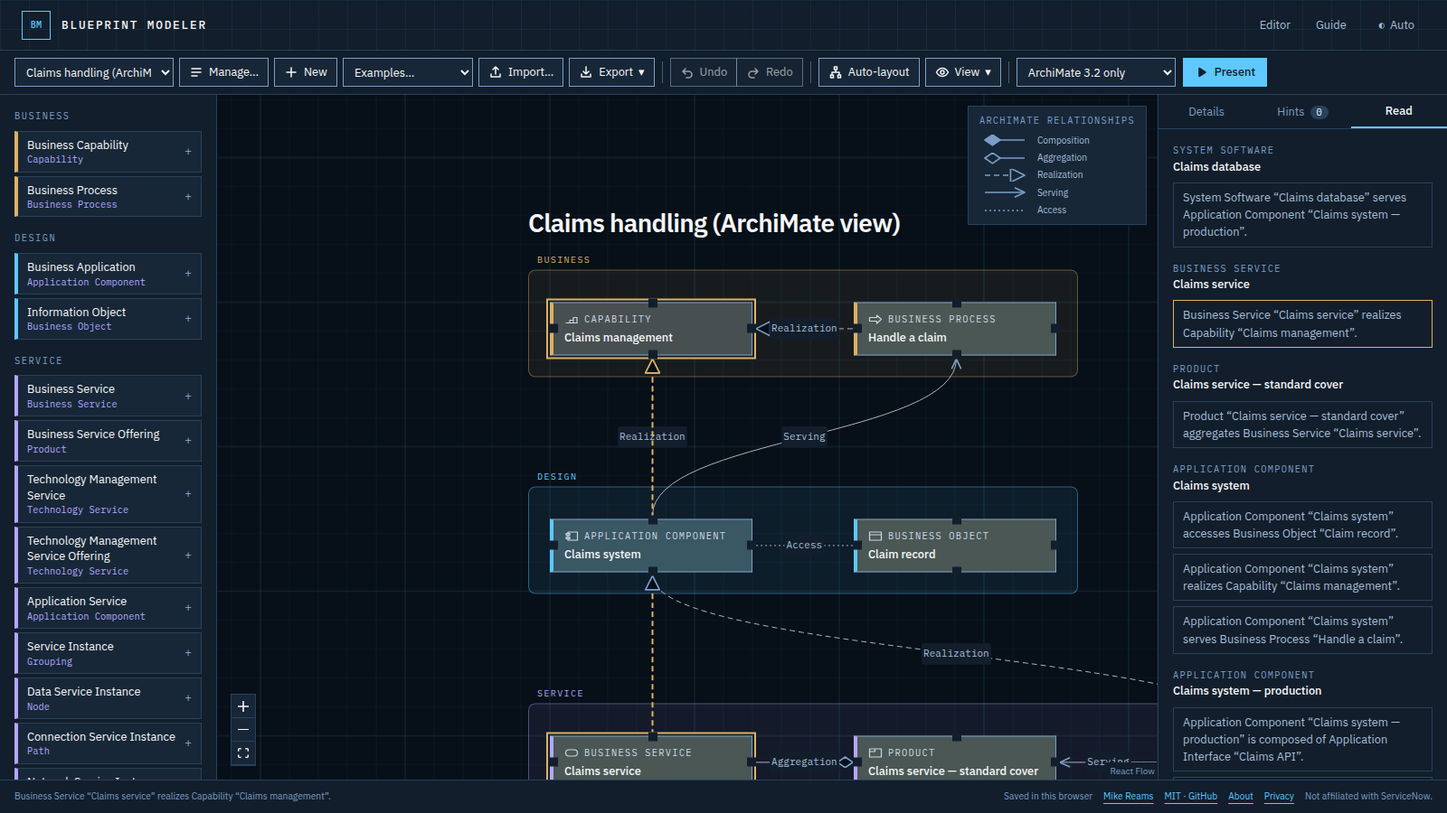
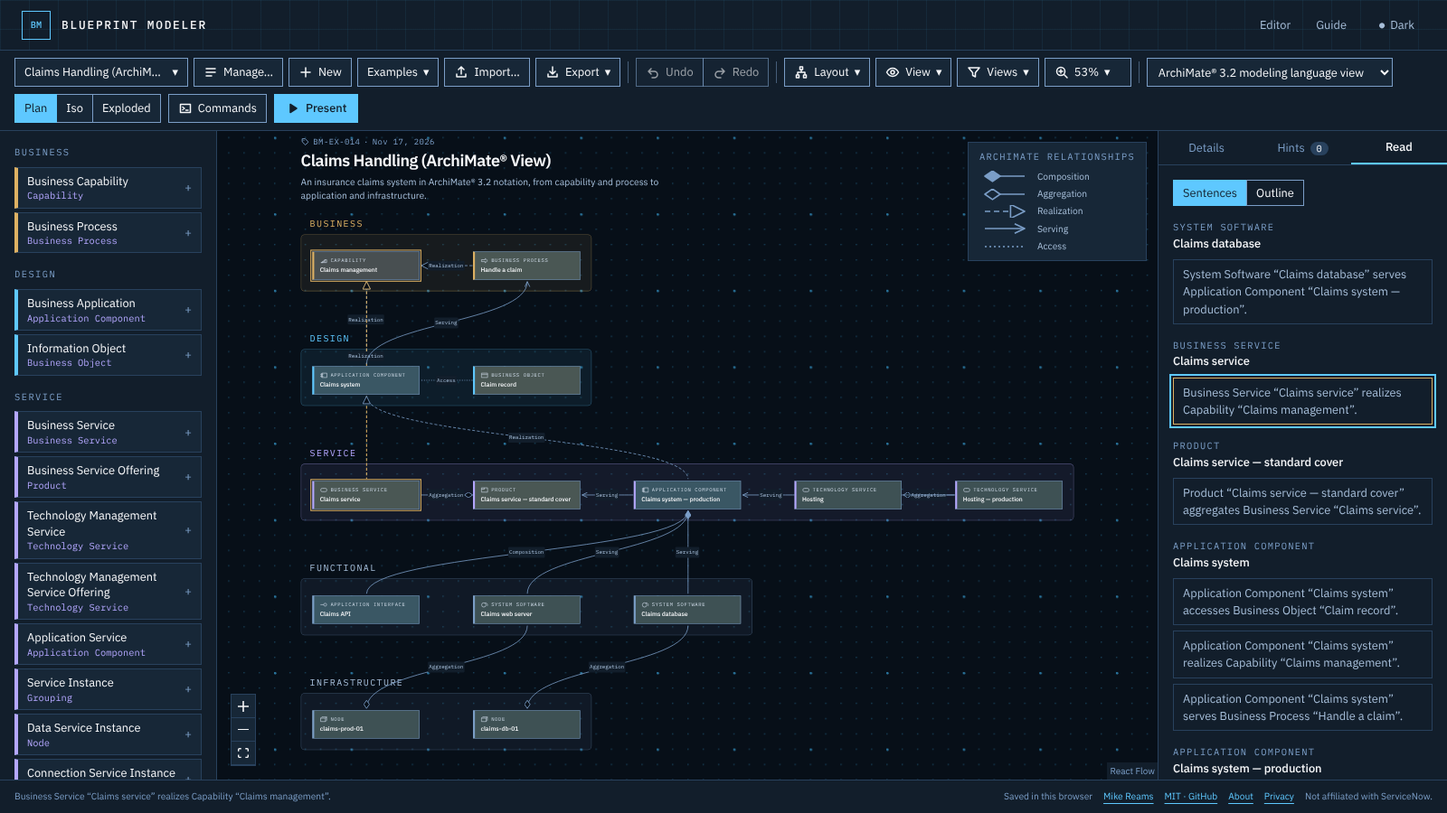
fix(copy): The Open Group's trademark wording and repo notice (T1)
Lens labels 'CSDM with ArchiMate® 3.2 notation' and 'ArchiMate® 3.2 modeling language view'; ArchiMate® and TOGAF® used only as adjectives, with ® on labels and headings; 'Working with the TOGAF® Standard'; README notice that commercial use of elements derived from The Open Group's standards needs their license. A unit test scans the app's text and the README. The lens select widens to 17rem; toolbar breakpoints move 96px and Commands is icon-only below 1100px. README ArchiMate screenshots retaken.

Claude-Session: https://claude.ai/code/session_01XZovLZqByaTnjq5eEBs2kf

diff --git a/src/frameworks/trademarks.test.ts b/src/frameworks/trademarks.test.ts
@@ -1,0 +1,75 @@
+import { readdirSync, readFileSync, statSync } from "node:fs";
+import { join } from "node:path";
+import { describe, expect, it } from "vitest";
+import { lenses } from "./index";
+
+/**
+ * The Open Group's trademark guidance (2026-11-16): ArchiMate® and TOGAF® are adjectives, never standalone
+ * nouns, and carry ® on labels. This scans what users read (the app's source text, comments stripped, and the
+ * README) for a mark not followed by a noun it describes.
+ */
+const ROOT = join(__dirname, "..", "..");
+
+/** Words the ArchiMate® mark may describe. */
+const ARCHIMATE_NOUNS = new Set(
+  "type types element elements relationship relationships notation layer layers model models tool tools terms name names reading exchange Exchange specification Specification Model modeling language mapping view View file interface outcomes lens source fill export icon Application Technology Business".split(" "),
+);
+/** Words the TOGAF® mark may describe. */
+const TOGAF_NOUNS = new Set("Standard conformance".split(" "));
+
+function sourceFiles(dir: string): string[] {
+  return readdirSync(dir).flatMap((name) => {
+    const path = join(dir, name);
+    if (statSync(path).isDirectory()) return sourceFiles(path);
+    return /\.tsx?$/.test(name) && !/\.test\.tsx?$/.test(name) ? [path] : [];
+  });
+}
+
+/** Comments are for developers; strings and JSX text are what users read. */
+function withoutComments(text: string) {
+  return text
+    .replace(/\/\*[\s\S]*?\*\//g, "")
+    .split("\n")
+    .filter((line) => !line.trim().startsWith("//"))
+    .join("\n");
+}
+
+/** Each use of a mark that isn't followed (after ® and a version) by one of its nouns. */
+function misuses(text: string, mark: string, nouns: Set<string>) {
+  const found: string[] = [];
+  const re = new RegExp(`${mark}(?![A-Za-z])(®)?((?: 3\\.2| 4)?)(?:\\s+|-)?([A-Za-z']*)`, "g");
+  for (const m of text.matchAll(re)) {
+    const next = m[3] ?? "";
+    // The trademark notice itself: "ArchiMate® is a registered trademark…", "ArchiMate® and TOGAF® are registered trademarks…".
+    const rest = text.slice((m.index ?? 0) + m[0].length);
+    if (["is", "and", "are"].includes(next) && /^[^.]*registered trademark/.test(rest)) continue;
+    // An element type filled in at run time: `ArchiMate® ${type}` in an image, `ArchiMate® {type}` in JSX.
+    if (next === "" && /^\$?\{/.test(text.slice((m.index ?? 0) + m[0].length))) continue;
+    if (!nouns.has(next)) found.push(text.slice(Math.max(0, (m.index ?? 0) - 30), (m.index ?? 0) + m[0].length + 20).replace(/\s+/g, " "));
+  }
+  return found;
+}
+
+const texts = [
+  ...sourceFiles(join(ROOT, "src")).map((path) => ({ path, text: withoutComments(readFileSync(path, "utf8")) })),
+  { path: "README.md", text: readFileSync(join(ROOT, "README.md"), "utf8") },
+];
+
+describe("The Open Group's marks (guidance of 2026-11-16)", () => {
+  it("names the lenses with ® and a noun", () => {
+    expect(lenses.map((l) => l.label)).toEqual(["CSDM", "CSDM with ArchiMate® 3.2 notation", "ArchiMate® 3.2 modeling language view"]);
+  });
+
+  it("uses ArchiMate® only as an adjective, in the app and the README", () => {
+    expect(texts.flatMap(({ path, text }) => misuses(text, "ArchiMate", ARCHIMATE_NOUNS).map((m) => `${path}: ${m}`))).toEqual([]);
+  });
+
+  it("uses TOGAF® only as an adjective, with Standard capitalized", () => {
+    expect(texts.flatMap(({ path, text }) => misuses(text, "TOGAF", TOGAF_NOUNS).map((m) => `${path}: ${m}`))).toEqual([]);
+  });
+
+  it("tells commercial users of the Open Group material that they need their own license", () => {
+    const readme = texts.at(-1)!.text;
+    expect(readme).toContain("for commercial purposes requires a separate license from The Open Group");
+  });
+});

diff --git a/src/app/guide/page.tsx b/src/app/guide/page.tsx
@@ -321,7 +321,7 @@ export default function GuidePage() {
       <section aria-labelledby="archimate" className="mt-16" data-testid="archimate-section" data-guide-section="archimate">
         <h2 id="archimate" className={h2}>ArchiMate® 3.2 mapping</h2>
         <p className="mt-2 max-w-2xl text-sm text-ink-muted">
-          Switch the editor&apos;s lens to <strong className="font-medium text-ink-soft">CSDM + ArchiMate 3.2</strong> to see
+          Switch the editor&apos;s lens to <strong className="font-medium text-ink-soft">CSDM with ArchiMate® 3.2 notation</strong> to see
           these names on the canvas. The mapping is our interpretation; each element links to the chapter of the{" "}
           <a className="text-accent underline underline-offset-4" href={archimateSources.spec.url} target="_blank" rel="noopener noreferrer">
             public specification
@@ -329,25 +329,26 @@ export default function GuidePage() {
           that defines it, and every relationship is an allowed ArchiMate relationship. {ARCHIMATE_TRADEMARK}
         </p>
         <div className="mt-6 max-w-2xl text-sm text-ink-muted" data-testid="togaf-note">
-          <h3 className="text-base font-semibold text-ink">Working with the TOGAF® standard</h3>
+          <h3 className="text-base font-semibold text-ink">Working with the TOGAF® Standard</h3>
           <p className="mt-2">
-            ArchiMate and the TOGAF standard are both published by The Open Group, and teams that follow the TOGAF standard
-            often draw their models in ArchiMate. Blueprint Modeler can feed that work from the CSDM side:
+            The ArchiMate® modeling language and the TOGAF® Standard are both published by The Open Group, and teams that
+            follow the TOGAF Standard often draw their models in the ArchiMate language. Blueprint Modeler can feed that work
+            from the CSDM side:
           </p>
           <ul className="mt-2 list-disc space-y-1 pl-5">
             <li>
-              Switch the lens to <strong className="font-medium text-ink-soft">ArchiMate 3.2 only</strong> to review a model in
+              Switch the lens to <strong className="font-medium text-ink-soft">ArchiMate® 3.2 modeling language view</strong> to review a model in
               ArchiMate notation and layer colors.
             </li>
             <li>
-              Use <strong className="font-medium text-ink-soft">Export › ArchiMate model (XML)</strong> to hand the model to an
+              Use <strong className="font-medium text-ink-soft">Export › ArchiMate® model (XML)</strong> to hand the model to an
               ArchiMate tool or architecture repository; each element keeps its CSDM class as a property.
             </li>
             <li>Use the SVG or draw.io exports for documents and slides.</li>
           </ul>
           <p className="mt-2">
-            Blueprint Modeler does not implement the TOGAF standard: it has no method phases, governance, catalogs or matrices,
-            and it makes no claim of TOGAF conformance or certification. TOGAF is a registered trademark of The Open Group.
+            Blueprint Modeler does not implement the TOGAF Standard: it has no method phases, governance, catalogs or matrices,
+            and it makes no claim of TOGAF conformance or certification. TOGAF® is a registered trademark of The Open Group.
           </p>
         </div>
         <div className="mt-6 overflow-x-auto border border-border" tabIndex={0} role="region" aria-label="ArchiMate element mapping" data-guide-group>

diff --git a/e2e/m26.spec.ts b/e2e/m26.spec.ts
@@ -19,7 +19,7 @@ test.describe("M26: ArchiMate notation, layer colors and the Read tab (desktop)"
 
   test("the ArchiMate-only lens draws relationship notation with a legend; other lenses keep plain arrows", async ({ page }) => {
     await openExample(page, "Online Store Checkout");
-    await page.getByRole("combobox", { name: "Framework lens" }).selectOption({ label: "ArchiMate 3.2 only" });
+    await page.getByRole("combobox", { name: "Framework lens" }).selectOption({ label: "ArchiMate® 3.2 modeling language view" });
 
     // Every edge carries ArchiMate markers, and realizations are dashed with the hollow triangle.
     const paths = page.locator(".react-flow__edge-path");
@@ -41,7 +41,7 @@ test.describe("M26: ArchiMate notation, layer colors and the Read tab (desktop)"
     const fills = await page.locator("[data-archimate-layer]").evaluateAll((els) => new Set(els.map((el) => getComputedStyle(el).backgroundColor)).size);
     expect(fills).toBeGreaterThanOrEqual(3);
 
-    await page.getByRole("combobox", { name: "Framework lens" }).selectOption({ label: "CSDM + ArchiMate 3.2" });
+    await page.getByRole("combobox", { name: "Framework lens" }).selectOption({ label: "CSDM with ArchiMate® 3.2 notation" });
     await expect(legend).toHaveCount(0);
     await expect(page.locator("[data-archimate-layer]")).toHaveCount(0);
     const plain = await paths.evaluateAll((els) => els.every((el) => (el.getAttribute("marker-end") ?? "").includes("arrowclosed") && !el.getAttribute("marker-start")));
@@ -49,7 +49,7 @@ test.describe("M26: ArchiMate notation, layer colors and the Read tab (desktop)"
   });
 
   test("text on ArchiMate layer fills stays readable in both themes", async ({ page }) => {
-    await openExample(page, "Claims Handling (ArchiMate View)");
+    await openExample(page, "Claims Handling (ArchiMate® View)");
     await expect(page.getByRole("combobox", { name: "Framework lens" })).toHaveValue("archimate-only");
     for (const scheme of ["dark", "light"] as const) {
       await page.emulateMedia({ colorScheme: scheme });
@@ -92,14 +92,14 @@ test.describe("M26: ArchiMate notation, layer colors and the Read tab (desktop)"
     await page.locator(".react-flow__pane").click({ position: { x: 5, y: 5 } });
 
     // The ArchiMate-only lens reads ArchiMate relationships from ArchiMate's source end.
-    await page.getByRole("combobox", { name: "Framework lens" }).selectOption({ label: "ArchiMate 3.2 only" });
+    await page.getByRole("combobox", { name: "Framework lens" }).selectOption({ label: "ArchiMate® 3.2 modeling language view" });
     await expect(panel).toContainText("Application Component “Checkout — production” realizes Application Component “Checkout”.");
   });
 
   for (const scheme of ["dark", "light"] as const) {
     test(`notation legend, layer fills and the Read tab have no WCAG 2.2 AA violations (${scheme})`, async ({ page }) => {
       await page.emulateMedia({ colorScheme: scheme });
-      await openExample(page, "Claims Handling (ArchiMate View)");
+      await openExample(page, "Claims Handling (ArchiMate® View)");
       await expect(page.getByTestId("notation-legend")).toBeVisible();
       await page.getByRole("tab", { name: "Read" }).click();
       await page.getByTestId("read-panel").getByRole("button").first().click();

diff --git a/src/editor/Editor.tsx b/src/editor/Editor.tsx
@@ -139,7 +139,7 @@ const primaryButton =
   "inline-flex min-h-8 cursor-pointer items-center gap-1.5 border border-accent bg-accent px-3 text-sm font-medium text-accent-ink hover:opacity-90 disabled:cursor-not-allowed disabled:opacity-60";
 /** Toolbar groups (Model, Edit, Arrange, Lens): a caption on wide screens, a divider between groups. */
 const toolbarGroup = "flex flex-wrap items-center gap-1.5";
-const groupCaption = "mr-0.5 hidden font-mono text-[0.65rem] tracking-[0.14em] text-ink-muted uppercase min-[2120px]:inline";
+const groupCaption = "mr-0.5 hidden font-mono text-[0.65rem] tracking-[0.14em] text-ink-muted uppercase min-[2216px]:inline";
 const toolbarDivider = "h-6 w-px bg-border-strong/50";
 const toolbarSelect = "min-h-8 max-w-60 border border-border-strong bg-surface-raised px-2 text-sm text-ink";
 /** Minimap node fill per CSDM layer: the same tokens as the nodes' left borders (layerAccent). */
@@ -2937,7 +2937,7 @@ function EditorInner() {
           </span>
           <label className="flex items-center text-sm">
             <span className="sr-only">Framework lens</span>
-            <select className={`${toolbarSelect} w-44`} value={lens} onChange={(e) => setLens(e.target.value as Lens)} data-testid="lens-select">
+            <select className={`${toolbarSelect} w-[17rem] max-w-none`} value={lens} onChange={(e) => setLens(e.target.value as Lens)} data-testid="lens-select">
               {lenses.map((l) => (
                 <option key={l.id} value={l.id}>
                   {l.label}
@@ -2967,10 +2967,11 @@ function EditorInner() {
         </div>
         {/* Commands and Present wrap together, so Present never sits alone on a second row. */}
         <div className="flex items-center gap-2">
-          {/* Icon only from 1778 to 1847px: there the word would push Present onto a second row (narrower, the toolbar has two rows anyway). */}
+          {/* Icon only from 1874 to 1943px, where the word would push Present onto a second row, and below 1100px, where it
+              would push both onto a third (T1: the lens select's longer labels). */}
           <button type="button" className={toolbarButton} onClick={() => openDialog(setPalette)} aria-label="Commands" title="Commands (Ctrl+K or ⌘K)" aria-keyshortcuts="Control+K Meta+K">
             <ToolbarIcon name="commands" />
-            <span aria-hidden="true" className="min-[1778px]:max-[1847px]:hidden">
+            <span aria-hidden="true" className="min-[1874px]:max-[1943px]:hidden max-[1099px]:hidden">
               Commands
             </span>
           </button>

diff --git a/e2e/lens.spec.ts b/e2e/lens.spec.ts
@@ -17,7 +17,7 @@ test.describe("framework lens (desktop)", () => {
   test("the ArchiMate lens adds mapped names to nodes and the inspector, and survives a reload", async ({ page }) => {
     await openCheckout(page);
     await expect(page.getByTestId("lens-label")).toHaveCount(0);
-    await page.getByRole("combobox", { name: "Framework lens" }).selectOption({ label: "CSDM + ArchiMate 3.2" });
+    await page.getByRole("combobox", { name: "Framework lens" }).selectOption({ label: "CSDM with ArchiMate® 3.2 notation" });
     const labels = page.getByTestId("lens-label");
     await expect(labels).toHaveCount(await page.locator(".react-flow__node").count());
     await expect(page.locator(".react-flow__node").filter({ hasText: "Checkout — production" }).getByTestId("lens-label")).toHaveText(
@@ -28,8 +28,8 @@ test.describe("framework lens (desktop)", () => {
     const panel = page.getByTestId("lens-panel");
     await expect(panel).toContainText("Application Component");
     await expect(panel).toContainText("not an ArchiMate Application Service");
-    await expect(panel.getByRole("link", { name: /Source: ArchiMate 3.2, Application Layer/ })).toHaveAttribute("href", /pubs\.opengroup\.org/);
-    await expect(page.getByRole("complementary", { name: "Inspector" })).toContainText("ArchiMate: Serving");
+    await expect(panel.getByRole("link", { name: /Source: ArchiMate 3.2 Specification, Application Layer/ })).toHaveAttribute("href", /pubs\.opengroup\.org/);
+    await expect(page.getByRole("complementary", { name: "Inspector" })).toContainText("ArchiMate relationship: Serving");
 
     await page.reload();
     await expect(page.getByRole("combobox", { name: "Framework lens" })).toHaveValue("archimate");
@@ -42,7 +42,7 @@ test.describe("framework lens (desktop)", () => {
     test(`the ArchiMate lens has no WCAG 2.2 AA violations (${scheme})`, async ({ page }) => {
       await page.emulateMedia({ colorScheme: scheme });
       await openCheckout(page);
-      await page.getByRole("combobox", { name: "Framework lens" }).selectOption({ label: "CSDM + ArchiMate 3.2" });
+      await page.getByRole("combobox", { name: "Framework lens" }).selectOption({ label: "CSDM with ArchiMate® 3.2 notation" });
       await page.locator(".react-flow__node").filter({ hasText: "Checkout — production" }).click();
       await expect(page.getByTestId("lens-panel")).toBeVisible();
       const results = await new AxeBuilder({ page }).withTags(tags).analyze();

diff --git a/src/editor/Inspector.tsx b/src/editor/Inspector.tsx
@@ -587,7 +587,7 @@ export function Inspector({ model, selectedId, dispatch, focusName, focusConnect
       {am && (
         <section aria-labelledby="archimate-heading" className="border border-border p-3" data-testid="lens-panel">
           <h2 id="archimate-heading" className="font-mono text-[0.65rem] tracking-[0.14em] text-ink-muted uppercase">
-            In ArchiMate 3.2
+            ArchiMate® 3.2 mapping
           </h2>
           <p className="mt-1.5 flex items-center gap-1.5 text-sm font-medium text-ai">
             <ArchimateGlyph type={am.type} />
@@ -596,7 +596,7 @@ export function Inspector({ model, selectedId, dispatch, focusName, focusConnect
           <p className="text-xs text-ink-muted">{am.layer} layer</p>
           {am.note && <p className="mt-1 text-xs text-ink-soft">{am.note}</p>}
           <a className="mt-1 inline-block text-xs text-accent underline underline-offset-4" href={archimateSources[am.source].url} target="_blank" rel="noopener noreferrer">
-            Source: {archimateSources[am.source].title.replace("ArchiMate® 3.2 Specification — ", "ArchiMate 3.2, ")}
+            Source: {archimateSources[am.source].title.replace("ArchiMate® 3.2 Specification — ", "ArchiMate 3.2 Specification, ")}
             <span className="sr-only"> (opens in a new tab)</span>
           </a>
           <p className="mt-1 text-[0.65rem] text-ink-muted">{ARCHIMATE_TRADEMARK}</p>
@@ -675,7 +675,7 @@ export function Inspector({ model, selectedId, dispatch, focusName, focusConnect
               <span className="flex flex-col">
                 <span>{text}</span>
                 <span className="font-mono text-xs text-ink-muted">{e.type}</span>
-                {showsArchimate(lens) && archimateRel(e.from, e.to) && <span className="text-xs text-ai">ArchiMate: {archimateRel(e.from, e.to)}</span>}
+                {showsArchimate(lens) && archimateRel(e.from, e.to) && <span className="text-xs text-ai">ArchiMate relationship: {archimateRel(e.from, e.to)}</span>}
                 <PlanSelect compact value={planOf(e)} label={`Plan status of relationship ${text} ${e.type}`} onCommit={(plan) => dispatch({ type: "set-plan", target: "edge", id: e.id, plan })} />
               </span>
               <button type="button" className={button} onClick={() => dispatch({ type: "delete-edge", id: e.id })} aria-label={`Remove relationship ${text} ${e.type}`}>

diff --git a/src/io/svg.ts b/src/io/svg.ts
@@ -423,7 +423,7 @@ export function modelToSvg(whole: Model, theme: SvgTheme, opts: { lens?: Lens; h
         (n.plan === "retiring" ? `<line data-strike="" x1="${b.x + 14}" y1="${nameY - 5}" x2="${r1(b.x + 14 + Math.min(shownName.length * 7.8, b.w - 24))}" y2="${nameY - 5}" stroke="${ghost ? p.muted : p.ink}" stroke-width="1.5"/>` : "") +
         (alt
           ? `<line x1="${b.x + 14}" y1="${b.y + b.h - 26}" x2="${b.x + b.w - 10}" y2="${b.y + b.h - 26}" stroke="${p.line}" stroke-opacity="0.4"/>` +
-            `<text x="${b.x + 14}" y="${b.y + b.h - 10}" font-family="${MONO}" font-size="10" fill="${ghost ? p.muted : p.ai}">ArchiMate · ${esc(alt)}</text>`
+            `<text x="${b.x + 14}" y="${b.y + b.h - 10}" font-family="${MONO}" font-size="10" fill="${ghost ? p.muted : p.ai}">ArchiMate® ${esc(alt)}</text>`
           : "") +
         `</g>`,
     );
@@ -456,8 +456,8 @@ export function modelToSvg(whole: Model, theme: SvgTheme, opts: { lens?: Lens; h
   const title = esc(name);
   const desc = esc(
     amOnly
-      ? `CSDM model with ${count(model.nodes.length, "element")} and ${count(model.edges.length, "relationship")}, shown as an ArchiMate 3.2 view (ArchiMate element types, relationship notation and layer colors), exported from Blueprint Modeler.${stateDesc}${focusDesc(view)}`
-      : `CSDM model with ${count(model.nodes.length, "element")} and ${count(model.edges.length, "relationship")}${showsArchimate(lens) ? ", with ArchiMate 3.2 element names" : ""}, exported from Blueprint Modeler.${stateDesc}${focusDesc(view)}`,
+      ? `CSDM model with ${count(model.nodes.length, "element")} and ${count(model.edges.length, "relationship")}, shown in the ArchiMate® 3.2 modeling language view (ArchiMate element types, relationship notation and layer colors), exported from Blueprint Modeler.${stateDesc}${focusDesc(view)}`
+      : `CSDM model with ${count(model.nodes.length, "element")} and ${count(model.edges.length, "relationship")}${showsArchimate(lens) ? ", with ArchiMate® 3.2 element names" : ""}, exported from Blueprint Modeler.${stateDesc}${focusDesc(view)}`,
   );
   return [
     `<?xml version="1.0" encoding="UTF-8"?>`,

diff --git a/src/frameworks/archimate.ts b/src/frameworks/archimate.ts
@@ -81,7 +81,7 @@ export const archimateElements = {
     type: "Product",
     label: "Product",
     layer: "Business",
-    note: "An offering packages a service with commitments such as hours and support levels, which ArchiMate expresses as a product (with a contract).",
+    note: "An offering packages a service with commitments such as hours and support levels, which the ArchiMate language expresses as a product (with a contract).",
     source: "business",
   },
   technology_management_service: { type: "TechnologyService", label: "Technology Service", layer: "Technology", source: "technology" },
@@ -168,7 +168,7 @@ export const archimateElements = {
     type: "Grouping",
     label: "Grouping",
     layer: "Other",
-    note: "A namespace partitions a cluster; ArchiMate groups things with a grouping.",
+    note: "A namespace partitions a cluster; the ArchiMate language groups things with a grouping.",
     source: "spec",
   },
   kubernetes_workload: {
@@ -197,7 +197,7 @@ export const archimateElements = {
     type: "Grouping",
     label: "Grouping",
     layer: "Other",
-    note: "A vCenter datacenter is a management container; ArchiMate groups things with a grouping. Use Location for a physical site.",
+    note: "A vCenter datacenter is a management container; the ArchiMate language groups things with a grouping. Use Location for a physical site.",
     source: "spec",
   },
   vcenter_cluster: { type: "Node", label: "Node", layer: "Technology", note: "A cluster is a node that aggregates other nodes.", source: "technology" },

diff --git a/e2e/hints.spec.ts b/e2e/hints.spec.ts
@@ -126,11 +126,12 @@ test.describe("class guide", () => {
   test("the guide says how the ArchiMate views fit TOGAF work, with its notice and no conformance claim", async ({ page }) => {
     await page.goto("/guide");
     const note = page.getByTestId("archimate-section").getByTestId("togaf-note");
-    await expect(note.getByRole("heading", { name: "Working with the TOGAF® standard" })).toBeVisible();
-    await expect(note).toContainText("ArchiMate 3.2 only");
-    await expect(note).toContainText("Export › ArchiMate model (XML)");
+    await expect(note.getByRole("heading", { name: "Working with the TOGAF® Standard" })).toBeVisible();
+    await expect(note).toContainText("ArchiMate® 3.2 modeling language view");
+    await expect(note).toContainText("Export › ArchiMate® model (XML)");
     await expect(note).toContainText("makes no claim of TOGAF conformance or certification");
-    await expect(note).toContainText("TOGAF is a registered trademark of The Open Group.");
+    await expect(note).toContainText("TOGAF® is a registered trademark of The Open Group.");
+    await expect(note).toContainText("teams that follow the TOGAF Standard");
     expect(await note.locator("a").count()).toBe(0);
     // Trademark use: never "TOGAF-compliant", "TOGAF certified" or the like as a claim.
     expect(await page.locator("main").innerText()).not.toMatch(/TOGAF[®\s-]*(compliant|conformant|certified)/i);

diff --git a/src/components/heroFigures.ts b/src/components/heroFigures.ts
@@ -16,9 +16,9 @@ export const heroFigures = [
     desc: "The same chain, with a line drawn straight from the Business Application Checkout to the Host web-prod-01. The editor refuses it: a Business Application is not related directly to a Host in CSDM. The route goes through the Application Service Checkout — production instead.",
   },
   {
-    label: "Read it in ArchiMate",
-    summary: "Same model, read in ArchiMate 3.2: a view-only lens.",
+    label: "Read it in ArchiMate® notation",
+    summary: "Same model in ArchiMate® 3.2 notation: a view-only lens.",
     href: "/guide#archimate",
-    desc: "The same elements read in ArchiMate 3.2: Order Management is a Capability realized by the Application Component Checkout, which is realized by the Application Component Checkout — production. The System Software checkout-web serves it, and the Node web-prod-01 aggregates the system software. Elements take their ArchiMate layer colors; the model itself stays in CSDM.",
+    desc: "The same elements in ArchiMate® 3.2 notation: Order Management is a Capability realized by the Application Component Checkout, which is realized by the Application Component Checkout — production. The System Software checkout-web serves it, and the Node web-prod-01 aggregates the system software. Elements take their ArchiMate layer colors; the model itself stays in CSDM.",
   },
 ] as const;

diff --git a/src/app/about/page.tsx b/src/app/about/page.tsx
@@ -26,10 +26,10 @@ export default function AboutPage() {
       </p>
       <h2>Other frameworks</h2>
       <p>
-        Switch the lens to <strong>CSDM + ArchiMate 3.2</strong> and every element also shows the ArchiMate element it
+        Switch the lens to <strong>CSDM with ArchiMate® 3.2 notation</strong> and every element also shows the ArchiMate element it
         maps to, with the notation icon. The model itself stays in CSDM terms, so nothing about your files changes. The
-        mapping is written in our own words and linked to the public ArchiMate specification in the{" "}
-        <a href="/guide#archimate">class guide</a>, and Export › ArchiMate model writes a Model Exchange File you can open in Archi or another ArchiMate tool. ArchiMate® is a registered trademark of The Open Group; this tool is
+        mapping is written in our own words and linked to the public ArchiMate 3.2 Specification in the{" "}
+        <a href="/guide#archimate">class guide</a>, and Export › ArchiMate® model (XML) writes a Model Exchange File you can open in Archi or another ArchiMate tool. ArchiMate® is a registered trademark of The Open Group; this tool is
         not affiliated with or endorsed by The Open Group.
       </p>
       <h2>Blast radius</h2>

diff --git a/src/examples/index.ts b/src/examples/index.ts
@@ -558,10 +558,10 @@ const specs: Spec[] = [
   },
   {
     id: "archimate-claims",
-    name: "Claims Handling (ArchiMate View)",
+    name: "Claims Handling (ArchiMate® View)",
     category: "frameworks",
-    summary: "A claims system read purely in ArchiMate 3.2: opens in the ArchiMate-only lens, so elements show their ArchiMate type and relationships their ArchiMate name — capability, process, product, application components, interface, system software and nodes.",
-    description: "An insurance claims system read in ArchiMate 3.2, from capability and process to application and infrastructure.",
+    summary: "A claims system shown purely in ArchiMate® 3.2 notation: opens in the ArchiMate® 3.2 modeling language view, so elements show their ArchiMate type and relationships their ArchiMate name — capability, process, product, application components, interface, system software and nodes.",
+    description: "An insurance claims system in ArchiMate® 3.2 notation, from capability and process to application and infrastructure.",
     lens: "archimate-only",
     nodes: [
       ["cap", "business_capability", "Claims management"],
